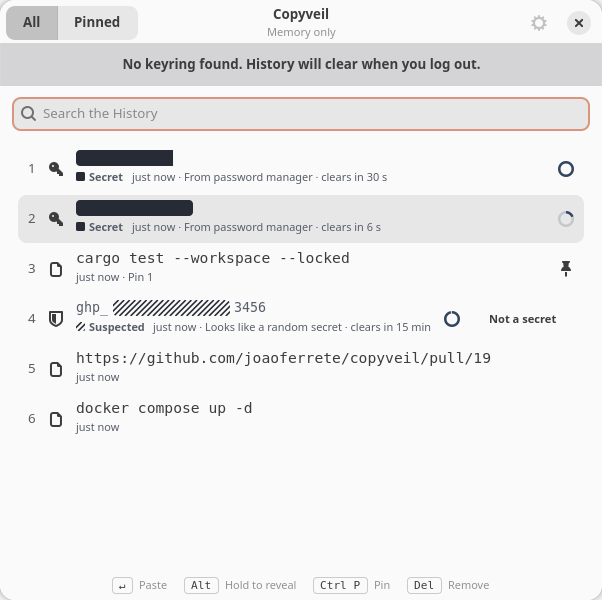
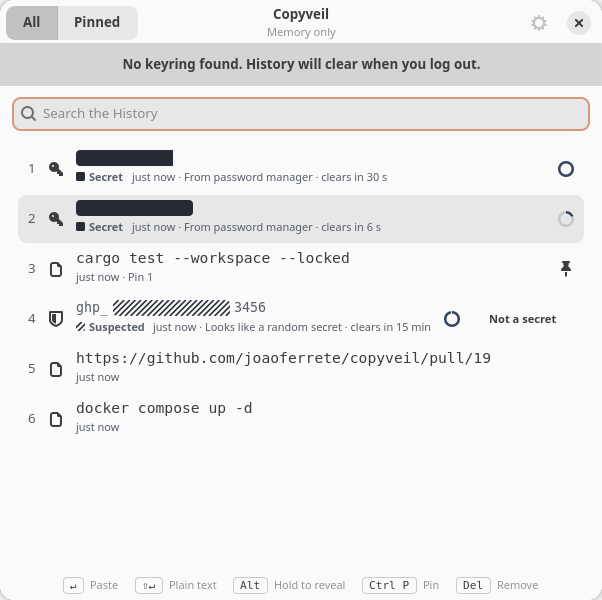
feat(app): paste rich text with its formatting, Shift+Enter as plain text

Changed region(s): [[0.0897, 0.96, 0.897, 0.99]]

diff --git a/crates/copyveil-app/src/window.rs b/crates/copyveil-app/src/window.rs
@@ -260,7 +260,7 @@ impl PopupWindow {
         self.list.connect_row_activated(move |_, row| {
             let id = this.state.borrow().rows.get(row_index(row)).map(|r| r.id);
             if let Some(id) = id {
-                this.paste(id);
+                this.paste(id, false);
             }
         });
 
@@ -305,7 +305,8 @@ impl PopupWindow {
             gdk::Key::Return | gdk::Key::KP_Enter => {
                 let id = self.state.borrow().popup.selected().map(|item| item.id);
                 if let Some(id) = id {
-                    self.paste(id);
+                    let plain = modifiers.contains(gdk::ModifierType::SHIFT_MASK);
+                    self.paste(id, plain);
                 }
             }
             gdk::Key::Alt_L | gdk::Key::Alt_R => self.reveal_selected(),
@@ -324,7 +325,7 @@ impl PopupWindow {
                 let id = number_key(key)
                     .and_then(|n| self.state.borrow().popup.numbered(n).map(|item| item.id));
                 if let Some(id) = id {
-                    self.paste(id);
+                    self.paste(id, false);
                 }
             }
             _ => return Propagation::Proceed,
@@ -500,7 +501,55 @@ impl PopupWindow {
 
     /// The carbon copy: a ghost of the row lifts off and fades, then the
     /// popup closes and the Item is pasted.
-    fn paste(&self, id: u64) {
+    /// Pastes an Item: rich text with Enter goes on the clipboard from here,
+    /// as HTML and plain text, while the popup still has focus (Wayland lets
+    /// only the focused app set the clipboard); everything else is pasted by
+    /// the capture source. See [`crate::popup::paste_route`].
+    fn paste(&self, id: u64, plain: bool) {
+        let item = self
+            .state
+            .borrow()
+            .popup
+            .visible()
+            .into_iter()
+            .find(|item| item.id == id)
+            .cloned();
+        let Some(item) = item else {
+            return;
+        };
+        match crate::popup::paste_route(&item, plain) {
+            crate::popup::PasteRoute::Source => self.lift_and_finish(id, false),
+            crate::popup::PasteRoute::Rich => {
+                let this = self.clone();
+                glib::spawn_future_local(async move {
+                    let Some((html, text)) = this.daemon.content(id).await else {
+                        return;
+                    };
+                    let text = if text.is_empty() { html.clone() } else { text };
+                    let providers = [
+                        gdk::ContentProvider::for_bytes(
+                            "text/html",
+                            &glib::Bytes::from_owned(html),
+                        ),
+                        gdk::ContentProvider::for_bytes(
+                            "text/plain;charset=utf-8",
+                            &glib::Bytes::from_owned(text),
+                        ),
+                    ];
+                    let _ = this
+                        .window
+                        .clipboard()
+                        .set_content(Some(&gdk::ContentProvider::new_union(&providers)));
+                    this.lift_and_finish(id, true);
+                });
+            }
+        }
+    }
+
+    /// The carbon copy, then the popup closes and the paste goes out: only
+    /// Ctrl+V when the app already filled the clipboard (`typed`), or a full
+    /// paste through the capture source.
+    fn lift_and_finish(&self, id: u64, typed: bool) {
         let row = self
             .state
             .borrow()
@@ -513,7 +562,11 @@ impl PopupWindow {
             this.hide();
             let daemon = daemon.clone();
             glib::spawn_future_local(async move {
-                daemon.paste(id).await;
+                if typed {
+                    daemon.type_paste().await;
+                } else {
+                    daemon.paste(id).await;
+                }
             });
         };
         match row.and_then(|row| self.lift_ghost(&row)) {
@@ -708,6 +761,7 @@ fn hints() -> gtk::Box {
     bar.set_margin_bottom(6);
     for (keys, action) in [
         ("↵", "Paste"),
+        ("⇧↵", "Plain text"),
         ("Alt", "Hold to reveal"),
         ("Ctrl P", "Pin"),
         ("Del", "Remove"),

diff --git a/crates/copyveil-app/src/popup/tests.rs b/crates/copyveil-app/src/popup/tests.rs
@@ -1,4 +1,7 @@
-use super::{NUMBERED_ROWS, PinRefusal, Popup, Tab, appeared, detector_for, expired, row_number};
+use super::{
+    NUMBERED_ROWS, PasteRoute, PinRefusal, Popup, Tab, appeared, detector_for, expired,
+    paste_route, row_number,
+};
 use copyveil_dbus::ItemSummary;
 
 fn item(id: u64, sensitivity: &str, pin_slot: u32) -> ItemSummary {
@@ -214,4 +217,17 @@ fn only_rows_whose_expiry_came_dissolve() {
     // Removed by hand before its Expiry: it just goes.
     assert!(expired(&shown, &[1, 3], 5).is_empty());
     assert_eq!(expired(&shown, &[], 9), [1, 2, 3]);
+}
+
+#[test]
+fn rich_text_keeps_its_formatting_unless_pasted_as_plain_text() {
+    let mut rich = item(1, "plain", 0);
+    rich.kind = "rich-text".into();
+    assert_eq!(paste_route(&rich, false), PasteRoute::Rich);
+    assert_eq!(paste_route(&rich, true), PasteRoute::Source);
+    assert_eq!(paste_route(&item(2, "plain", 0), false), PasteRoute::Source);
+    assert_eq!(
+        paste_route(&item(3, "secret", 0), false),
+        PasteRoute::Source
+    );
 }

diff --git a/crates/copyveil-app/src/popup.rs b/crates/copyveil-app/src/popup.rs
@@ -229,3 +229,26 @@ pub fn expired<T: PartialOrd + Copy>(expiring: &[(u64, T)], now_ids: &[u64], now
         .map(|(id, _)| *id)
         .collect()
 }
+
+/// How a paste goes out.
+#[derive(Debug, Clone, Copy, PartialEq, Eq)]
+pub enum PasteRoute {
+    /// The app puts the Item on the clipboard itself, as HTML and plain text
+    /// together (a capture source can offer only one type), then asks the
+    /// capture source to press Ctrl+V (`History1.TypePaste`).
+    Rich,
+    /// The capture source puts the Item on the clipboard and pastes
+    /// (`History1.Paste`): rich text goes in as plain text.
+    Source,
+}
+
+/// Rich text pasted with Enter keeps its formatting; Shift+Enter, and every
+/// other kind, goes through the capture source.
+#[must_use]
+pub fn paste_route(item: &ItemSummary, plain: bool) -> PasteRoute {
+    if item.kind == copyveil_dbus::kind::RICH_TEXT && !plain {
+        PasteRoute::Rich
+    } else {
+        PasteRoute::Source
+    }
+}

diff --git a/crates/copyveil-app/src/daemon.rs b/crates/copyveil-app/src/daemon.rs
@@ -258,6 +258,20 @@ impl Daemon {
         Some(String::from_utf8_lossy(&text).into_owned())
     }
 
+    /// One Item's content and plain-text fallback, as bytes: for pasting rich
+    /// text from the app.
+    pub async fn content(&self, id: u64) -> Option<(Vec<u8>, Vec<u8>)> {
+        self.call(move |history| async move { history.content(id).await })
+            .await
+    }
+
+    /// Asks the capture source to press Ctrl+V, after the app put an Item on
+    /// the clipboard itself.
+    pub async fn type_paste(&self) -> Option<()> {
+        self.call(|history| async move { history.type_paste().await })
+            .await
+    }
+
     /// Asks the capture source to paste the Item.
     pub async fn paste(&self, id: u64) -> Option<()> {
         self.call(move |history| async move { history.paste(id).await })

diff --git a/docs/design/README.md b/docs/design/README.md
@@ -61,6 +61,24 @@ The app as of the latest UI change, generated with `just app-screenshot` from sy
 
 Regenerate them in any PR that changes how the app looks.
 
+## Popup keyboard
+
+Typing always goes to the search. Everything else:
+
+| Keys | What it does |
+|---|---|
+| <kbd>↑</kbd> <kbd>↓</kbd>, <kbd>Page Up</kbd> <kbd>Page Down</kbd> | Move the selection |
+| <kbd>↵</kbd> | Paste the selected Item. Rich text keeps its formatting: the app offers HTML and plain text together, and the target app takes what it understands |
+| <kbd>⇧</kbd>+<kbd>↵</kbd> | Paste as plain text |
+| <kbd>Ctrl</kbd>+<kbd>1…9</kbd> | Paste the row with that number |
+| hold <kbd>Alt</kbd> | Reveal the selected masked Item, for at most 5 s |
+| <kbd>Ctrl</kbd>+<kbd>P</kbd> | Pin or unpin (Plain Items only) |
+| <kbd>Ctrl</kbd>+<kbd>N</kbd> | "Not a secret" on a Suspected Item |
+| <kbd>Del</kbd> | Remove (when the search is empty) |
+| <kbd>Ctrl</kbd>+<kbd>Tab</kbd> | Switch between All and Pinned |
+| <kbd>Ctrl</kbd>+<kbd>,</kbd> | Settings |
+| <kbd>Esc</kbd> | Close |
+
 ## Motion
 
 | Moment | What happens | Timing |
